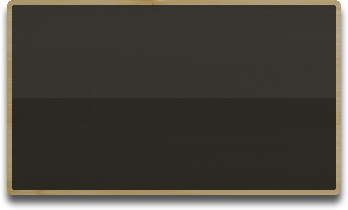
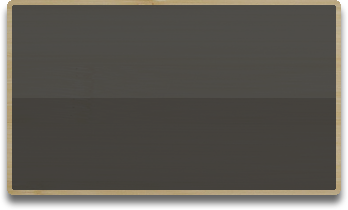
updated our story container

diff --git a/index.html b/index.html
@@ -29,7 +29,7 @@
       #bottom-pane #footer-menu{background: transparent url(img/footer.png) repeat-x; margin:0px; display:block; position:relative; width:864px; height:225px; margin:0px auto;padding:20px 0px 0px 0px;}
       #bottom-pane #footer-menu .menu{list-style:none; padding: 0px; margin:0px; border-right:#3c2d0b;float:left; width:148px;}
       #bottom-pane #footer-menu .menu.bottom{width:470px; margin-right:20px;}
-      #bottom-pane #footer-menu .our-story{opacity:0.7;background: transparent url(img/our-story-bg.png) repeat-x; width:308px; height:200px; list-style:none; padding: 10px 20px 0px 20px; margin:5px 13px 0px 10px; border-right:#3c2d0b;float:left;}
+      #bottom-pane #footer-menu .our-story{background: transparent url(img/our-story-bg.png) repeat-x; width:308px; height:200px; list-style:none; padding: 10px 20px 0px 20px; margin:5px 13px 0px 10px; border-right:#3c2d0b;float:left;}
       #bottom-pane #footer-menu h2.footer-label{font:bold 13px helvetica;color:#805700;margin:10px 0px 0px 0px; text-transform:uppercase;}
       #bottom-pane #footer-menu .our-story h2.footer-label{font:bold 13px helvetica;color:#b3b3b3;margin:10px 0px 0px 0px; text-transform:uppercase;}
       #bottom-pane #footer-menu .our-story p{font:normal 12px helvetica; line-height:20px; color:#999999;margin:0px;}
